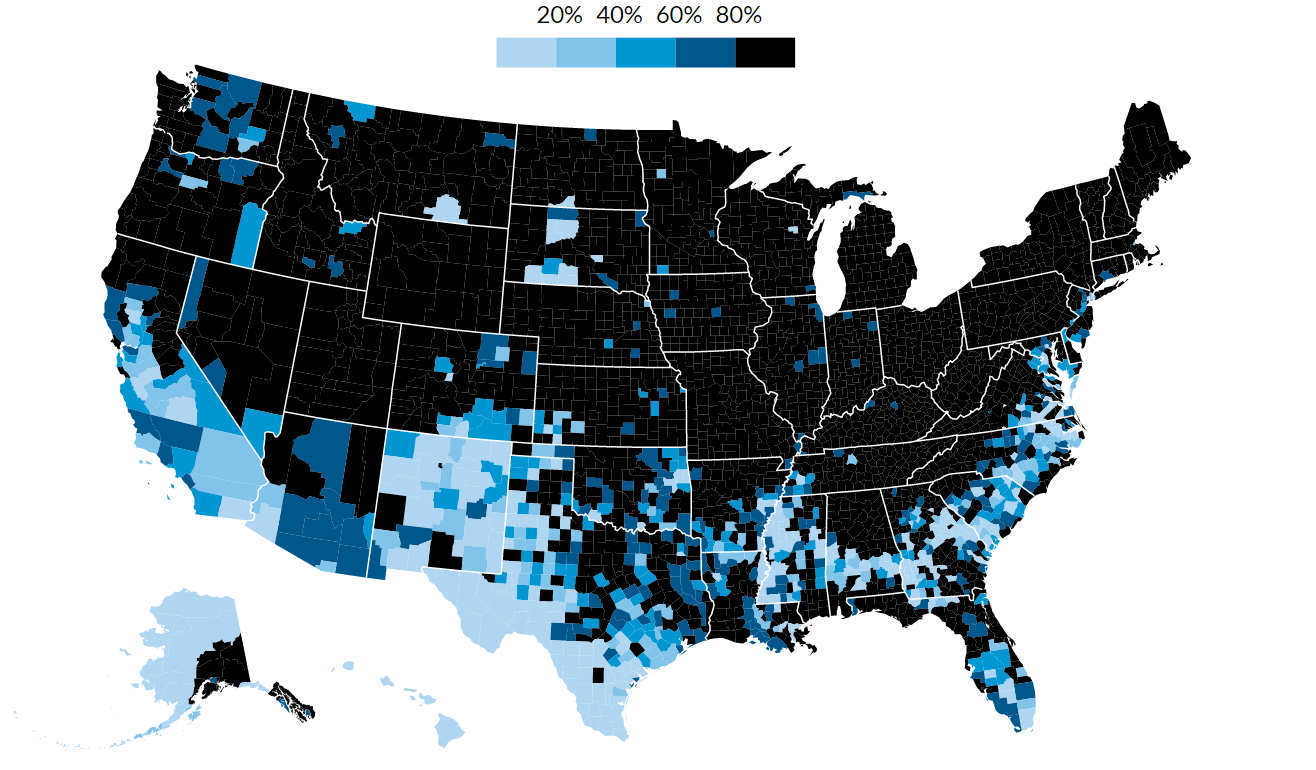
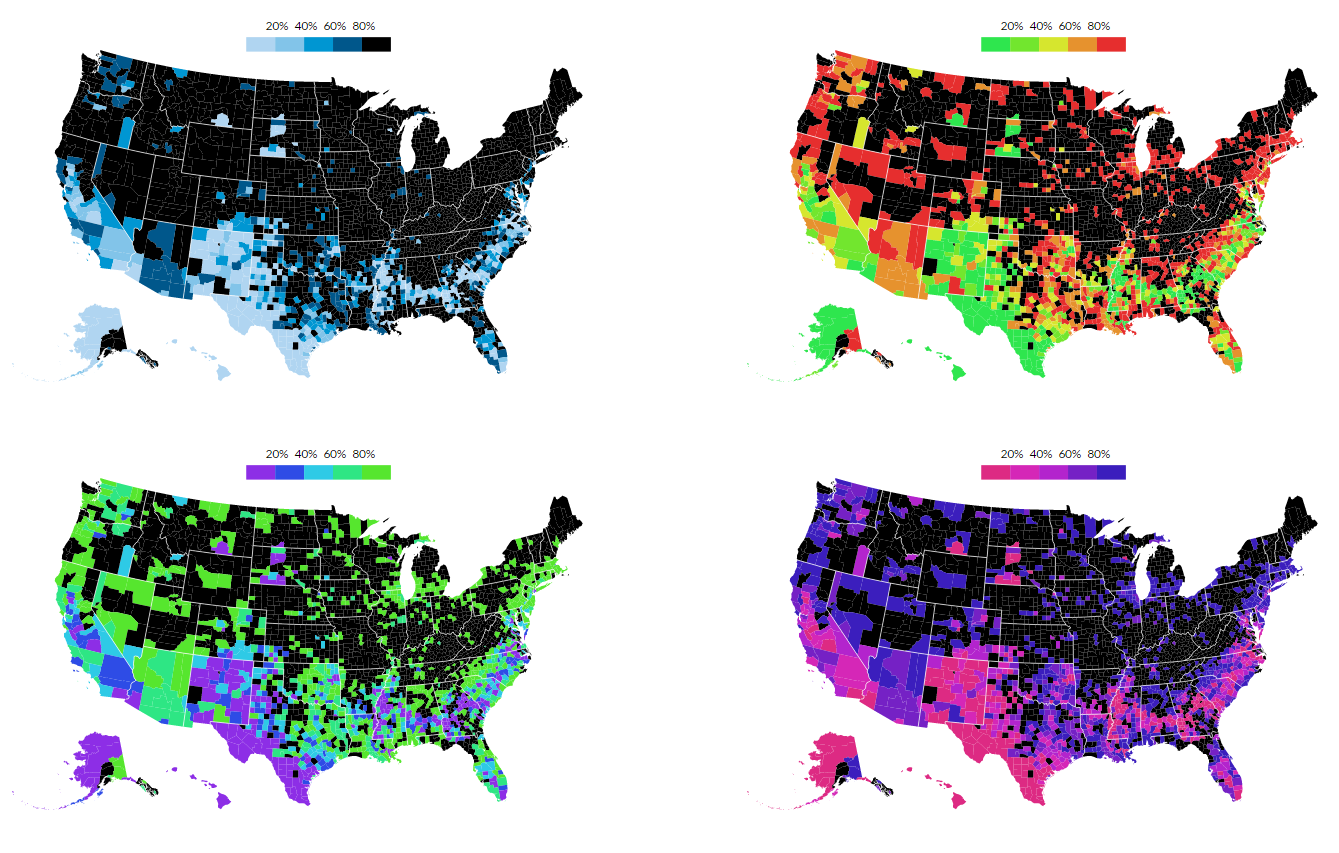
tooltip fixes

diff --git a/README.md b/README.md
@@ -6,7 +6,7 @@
 
 A re-usable interactive US map for county level data features.
 
-[![click to play with](https://github.com/UrbanInstitute/UrbanTemplates/blob/master/example.png)](http://datatools.urban.org/features/bsouthga/UrbanTemplates/Map)
+[![click to play with](https://github.com/UrbanInstitute/UrbanTemplates/blob/master/example.png)](http://datatools.urban.org/features/bsouthga/UrbanTemplates/Map/grid.html)
 
 ### Usage
 
